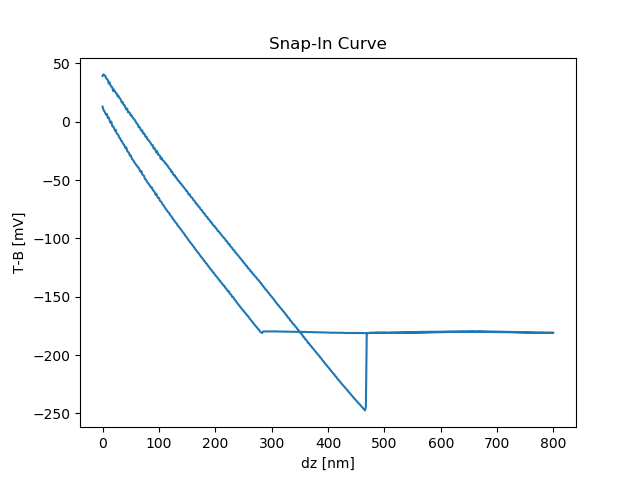
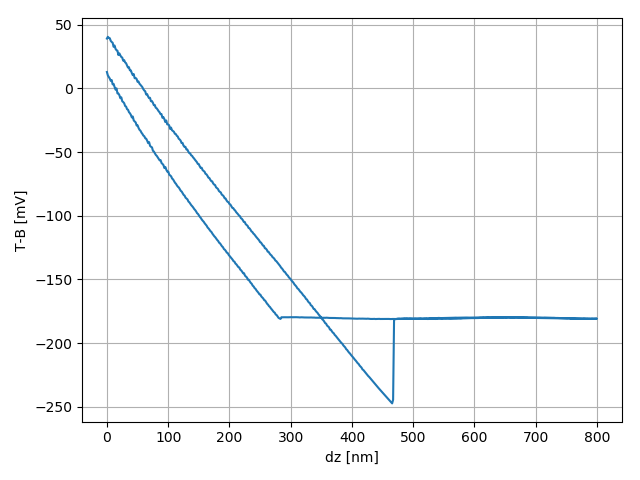
added Discussion for Contact/Tapping mode

diff --git a/M1/Protokoll/AFM.tex b/M1/Protokoll/AFM.tex
@@ -76,7 +76,7 @@ pra,
              %  but any date may be explicitly specified
 
 \begin{abstract}
-abstract
+The force calibration constants where determined for different setups used in contact, tapping and magnetic mode. The force calibration constant for the contact mode is several orders of magnitude smaller than the one for the tapping mode. The systematical error is dominating over the statistical.
 \end{abstract}
 
 \maketitle
@@ -97,7 +97,7 @@ abstract
 \hline 
  & Contact Mode & Tapping Mode & MFM \\ 
 \hline 
-$k_{real}$ & 0.18 $_{+0.06} ^{-0.03}$ \si{N \per m} & 40 $_{+12} ^{-6}$ \si{N \per m} & ??  \\ 
+$k_{real}$ & (0.18 $_{+0.06} ^{-0.03}$) \si{N \per m} & (40 $_{+12} ^{-6}$) \si{N \per m} & ??  \\ 
 \hline 
 \end{tabular} 
 \caption{Force constants of the cantilever as given by the producer.}
@@ -119,7 +119,7 @@ k_F = \dfrac{k_{real} \cdot k_z}{\alpha}
 In this $k_{real}$ denotes the known force constant of the cantilever (the force constants for the cantilever used in the different modes are listed in tab. \ref{tab:force_constants}), $k_z$ the calibration constant as given above and $\alpha$ is the averaged slope of the two fits mentioned above. \\
 
 
-\section{Results and Discussion}
+\section{Results}
 \subsection{Contact Mode}
 \begin{table}[h]
 \centering
@@ -160,7 +160,7 @@ Fig. \ref{fig:Contact_snap_in} shows the snap-in curve measured with the setup u
 \end{equation*}
 With this one calculates the force-calibration constant as:
 \begin{equation*}
-k_F^{contact} = (2.16 \pm 0.25 (stat.) _{+ 0.77} ^{- 0.42} (sys.)) \times 10^{-10} \si{N \per nm}
+k_F^{contact} = (2.16 \pm 0.25 \, (stat.) \, _{+ 0.77} ^{- 0.42} \, (sys.)) \times 10^{-10} \si{N \per mV}
 \end{equation*}
 
 
@@ -200,48 +200,27 @@ k_z^{tapping} = 0.695 \pm 0.074
 
 Fig. \ref{fig:Tapping_snap_in} shows the measured amplitude plotted against the sample-tip distance with the setup used in the tapping mode. The linear fit yields the averaged slope for the linear regime:
 \begin{equation*} 
-|\alpha| = \SI{1.6330 \pm 0.0057}{mV \per \mu m}
+|\alpha| = \SI{1.6330 \pm 0.0057}{V \per \mu m}
 \end{equation*}
 With this one calculates the force-calibration constant as:
 \begin{equation*}
-k_F^{tapping} = (1.70 \pm 0.18 (stat.) _{+ 0.49} ^{- 0.25} (sys.)) \times 10^{-5} \si{N \per mV}
-\end{equation*}
+k_F^{tapping} = (1.70 \pm 0.18 \, (stat.) \, _{+ 0.49} ^{- 0.25} \, (sys.)) \times 10^{-5} \si{N \per mV}
+\end{equation*} \\
 
 \subsection{Magnetic Microscopy}
 
 
 
+\section{Discussion}
+$k_F^{contact}$ is several magnitudes of order smaller than $k_F^{tapping}$. As the voltage can be measured with the same certainty this means that in contact mode the resolution with which the the force on the cantilever can be measured is much higher than in tapping mode. This makes sense as the forces to be measured in cantact mode are smaller than those in tapping mode. \\
+The statistical error on the force calibration constants is about 10\%. The systematical error only due to the error on the known force constant of the cantilever is with up to 35\% much higher. 
 
 
 
 
-%\begin{table}[h]
-%\centering
-%\begin{tabular}{|c|c|}
-%\hline 
-%Fabrication technology & "UNIBOND" \\ 
-%\hline 
-%top Si thickness & \SI{85}{nm} \\ 
-%\hline 
-%buried oxide thickness & \SI{145}{nm} \\ 
-%\hline 
-%doping type & p-type (Boron) \\ 
-%\hline 
-%doping concentration & $1 \times 10^{15}$ \si{\per\cubic\centi\meter} \\ 
-%\hline 
-%crystal orientation & (100) \\ 
-%\hline 
-%\end{tabular} 
-%\caption{Specification of the SOI wafer.}
-%\label{tab:Spec_SOI}
-%\end{table}
 
-%\begin{figure}
-%\centering
-%\includegraphics[scale=1.0]{Bilder/Lithographie.PNG}
-%\caption{Operating principle of Optical Lithographie with the different steps. Taken from \cite{Volklein00}}
-%\label{fig:Lithographie}
-%\end{figure}
+
+
 
 \bibliography{AFM}% Produces the bibliography via BibTeX.
 

diff --git a/M1/Python/Tapping_snap_curve.py b/M1/Python/Tapping_snap_curve.py
@@ -11,10 +11,11 @@ z, amp = data[:,1] * 10**(-7), data[:,3] * 10**(-7)
 sig_z, sig_amp = np.full(len(z), (z[1] - z[0])/np.sqrt(12)), np.full(len(z), np.std(amp[200:300]))
 
 fig = plt.figure()
-plt.errorbar(z, amp, xerr = sig_z, yerr = sig_amp, fmt = '.')
+plt.errorbar(z, amp * 10**3, xerr = sig_z * 10**3, yerr = sig_amp, fmt = '.')
 plt.grid()
 plt.xlabel('Z [nm]')
 plt.ylabel('Amplitude [mV]')
+plt.tight_layout()
 plt.savefig('../Protokoll/Bilder/Tapping_Mode/Snap_in_curve.png')
 plt.close(fig)
 

diff --git a/M1/Python/Contact_snap_curve.py b/M1/Python/Contact_snap_curve.py
@@ -14,7 +14,9 @@ fig = plt.figure()
 plt.plot(dz, T_B)
 plt.xlabel('dz [nm]')
 plt.ylabel('T-B [mV]')
-plt.title('Snap-In Curve')
+#plt.title('Snap-In Curve')
+plt.grid()
+plt.tight_layout()
 plt.savefig('../Protokoll/Bilder/Contact_Mode/Snap_in_curve.png')
 plt.close(fig)
 
